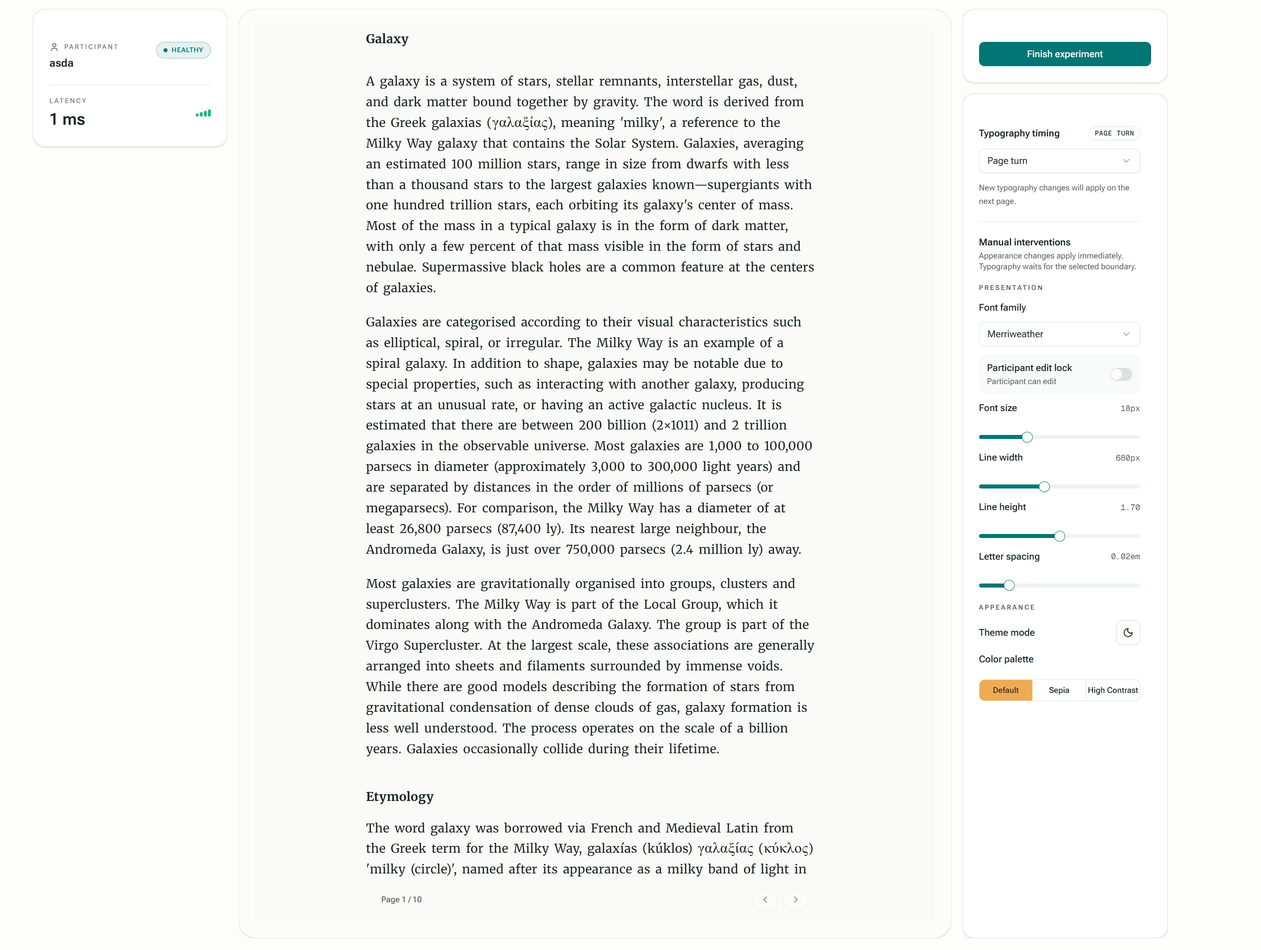
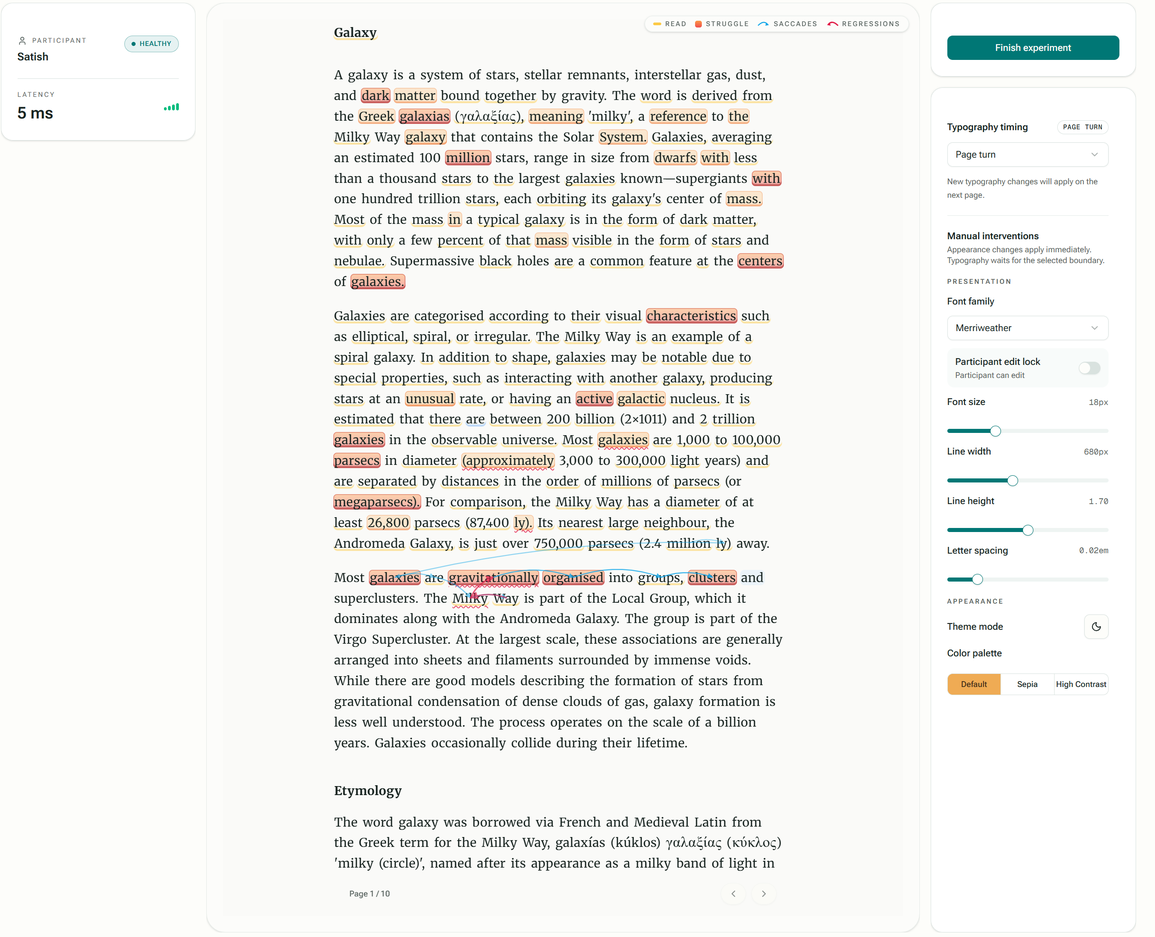
Refactor code structure for improved readability and maintainability

diff --git a/Master-Thesis-Report/Chapters/06_Implementation/02_session.tex b/Master-Thesis-Report/Chapters/06_Implementation/02_session.tex
@@ -4,17 +4,44 @@
 % Rewritten as a top-down, frontend-first flow: the researcher acts on a screen, the
 % action travels over one of two channels (REST commands / WebSocket realtime), the
 % backend session manager answers, and one authoritative snapshot updates both screens.
-% UML class-diagram primitives (multipart class boxes + UML arrowheads) for this chapter's structural figures.
-\usetikzlibrary{shapes.multipart, arrows.meta}
 
 \Cref{sec:impl-structure} mapped where the code lives; this section sets it in motion by following one experiment session end to end, told from the two screens the researcher operates and tracing each action inward to the code that answers it.
 It is the concrete counterpart of the abstract adaptive loop of \cref{sec:design-loop}, and it is the part of the system a researcher actually drives.
 
 \subsection*{Two screens, two channels}
 
-The platform is operated as two browser surfaces backed by one Next.js front-end (\cref{sec:impl-structure}): a researcher console on the operator's screen and a participant reader on the second screen.
-The researcher prepares and steers the session from the console while the participant only ever sees the reader, and the two are kept consistent not by talking to each other but by both rendering the same backend-owned snapshot.
+The platform is operated as two browser surfaces backed by one Next.js front-end (\cref{sec:impl-structure}), shown together in \cref{fig:impl-screens}: a researcher console on the operator's screen and a participant reader on the second screen.
+The researcher prepares and steers the session from the console, monitoring a live mirror of what the participant sees, while the participant only ever sees the reader; the two are kept consistent not by talking to each other but by both rendering the same backend-owned snapshot.
+
+\begin{figure}[htbp]
+\centering
+\begin{subfigure}{0.485\linewidth}
+  \centering
+  \screenshotfig[\linewidth]{Chapters/06_Implementation/screenshots/ResearcherLiveView.png}
+  \caption{Researcher console (operator screen).}
+  \label{fig:impl-screens-console}
+\end{subfigure}\hfill
+\begin{subfigure}{0.485\linewidth}
+  \centering
+  \screenshotfig[\linewidth]{Chapters/06_Implementation/screenshots/ReadingView.png}
+  \caption{Participant reader (second screen).}
+  \label{fig:impl-screens-reader}
+\end{subfigure}
+\caption{The two operated surfaces of the one front-end. The researcher prepares and steers the session from the console~(a), which mirrors the participant's reader, draws the live eye-movement analysis over the text (fixations, saccades, and regressions, toggled by the legend at the top), and reports the live end-to-end latency; the participant sees only the reader~(b), whose text the adaptive loop adjusts in place. Both render the same backend-owned snapshot, so they never diverge.}
+\label{fig:impl-screens}
+\end{figure}
+
 Two channels connect the front-end to the backend, and the distinction between them organises the whole walkthrough: a request and response REST interface carries the researcher's discrete \emph{commands}, while a single long-lived WebSocket carries the continuous realtime \emph{stream} in both directions.
+\Cref{fig:impl-flow} traces a complete session across these two channels, from the researcher's first command to the sealed record; the rest of this subsection then shows the code that realises each channel.
+
+\begin{figure}[htbp]
+\centering
+\IfFileExists{Chapters/06_Implementation/experiment-flow.pdf}%
+  {\includegraphics[width=\linewidth]{Chapters/06_Implementation/experiment-flow.pdf}}%
+  {\fbox{\parbox[c][4.2cm][c]{0.9\linewidth}{\centering\itshape Figure pending: render \texttt{Chapters/06\_Implementation/experiment-flow.mmd} to \texttt{experiment-flow.pdf} with \texttt{mmdc} (as for the Ch.~5 Mermaid figures).}}}%
+\caption{End-to-end flow of one experiment session across the two channels. The researcher's commands travel over REST (solid) and the realtime stream over the WebSocket (dashed); both converge on the single \texttt{ExperimentSessionManager}, which answers with one authoritative snapshot broadcast to both the console and the reader. Sensing, broadcast, and persistence are reached only through ports.}
+\label{fig:impl-flow}
+\end{figure}
 
 Commands travel over REST.
 The front-end's REST access is centralised in RTK Query slices (\cref{sec:impl-structure}); each researcher command (save the participant, choose the material, start the session, finish it, change an intervention policy) is a mutation that posts to a FastEndpoints route and receives the updated \texttt{ExperimentSessionSnapshot} in reply.
@@ -105,17 +132,7 @@ type ServerEnvelope =
 \label{lst:impl-envelope}
 \end{listing}
 
-\Cref{fig:impl-flow} traces a complete session across these two channels, from the researcher's first command to the sealed record.
-The remainder of this section walks the same flow phase by phase, and \cref{fig:impl-session-states} names the three phases the session moves through (configuring, running, and completed, with a reset back to the beginning).
-
-\begin{figure}[htbp]
-\centering
-\IfFileExists{Chapters/06_Implementation/experiment-flow.pdf}%
-  {\includegraphics[width=\linewidth]{Chapters/06_Implementation/experiment-flow.pdf}}%
-  {\fbox{\parbox[c][4.2cm][c]{0.9\linewidth}{\centering\itshape Figure pending: render \texttt{Chapters/06\_Implementation/experiment-flow.mmd} to \texttt{experiment-flow.pdf} with \texttt{mmdc} (as for the Ch.~5 Mermaid figures).}}}%
-\caption{End-to-end flow of one experiment session across the two channels. The researcher's commands travel over REST (solid) and the realtime stream over the WebSocket (dashed); both converge on the single \texttt{ExperimentSessionManager}, which answers with one authoritative snapshot broadcast to both the console and the reader. Sensing, broadcast, and persistence are reached only through ports.}
-\label{fig:impl-flow}
-\end{figure}
+With the two channels in hand, the remainder of this section walks the flow of \cref{fig:impl-flow} phase by phase; \cref{fig:impl-session-states} names the three phases the session moves through (configuring, running, and completed, with a reset back to the beginning).
 
 \begin{figure}[htbp]
 \centering
@@ -145,8 +162,9 @@ The remainder of this section walks the same flow phase by phase, and \cref{fig:
 \subsection*{Configuring: preparing the session}
 
 In the configuring phase the researcher prepares the session through a guided, role-sequenced stepper, shown in \cref{fig:impl-setup}.
-Each step is a REST command of the kind in \cref{lst:impl-rest-command}: selecting the participant, for example, posts to the participant route, whose endpoint calls \texttt{SetCurrentParticipantAsync} on the session manager.
-That backend method shows the shape every state-changing command takes (\cref{lst:impl-state-change}): it awaits the lifecycle gate, publishes a new immutable session record with \texttt{Volatile.Write}, and persists a checkpoint before releasing the gate, copying the participant so that no caller can mutate published state.
+Each step is a REST command of the kind in \cref{lst:impl-rest-command}: selecting the participant, for example, posts to the participant route.
+On the backend every route is a thin FastEndpoints handler that maps the request onto the \texttt{IExperimentRuntimeAuthority} port and returns the updated snapshot, holding no logic of its own; the pattern is identical across routes, so it is shown once, for the finish command, in \cref{lst:impl-endpoint}.
+The participant handler calls \texttt{SetCurrentParticipantAsync} on the session manager, which shows the shape every state-changing command takes (\cref{lst:impl-state-change}): it awaits the lifecycle gate, publishes a new immutable session record with \texttt{Volatile.Write}, and persists a checkpoint before releasing the gate, copying the participant so that no caller can mutate published state.
 The gate is a one-permit \texttt{SemaphoreSlim} rather than a plain lock because these operations are asynchronous and may \texttt{await}, and it serialises the slow command path so that, for example, one request cannot start a session while another is still stopping it.
 
 \begin{listing}[htbp]
@@ -230,12 +248,75 @@ public async Task<bool> StartSessionAsync(CancellationToken ct = default)
 \label{lst:impl-start}
 \end{listing}
 
+The broadcast is the work of the client broadcaster (\cref{lst:impl-broadcaster}), the infrastructure adapter that realises \texttt{IClientBroadcasterAdapter}: it serialises the snapshot into one envelope (the \texttt{ServerEnvelope} shape of \cref{lst:impl-envelope}) and sends it to every open socket, silently skipping any that have dropped, so a single call reaches both screens at once.
+
+\begin{listing}[htbp]
+\begin{minted}{csharp}
+public sealed class WebSocketRealtimeMessenger : IClientBroadcasterAdapter
+{
+    private readonly WebSocketConnectionManager _connections;
+    public int ConnectedClients => _connections.Count;
+
+    public async ValueTask BroadcastAsync<T>(
+        string messageType, T payload, CancellationToken ct = default)
+    {
+        var buffer = SerializeEnvelope(messageType, payload);  // { type, sentAtUnixMs, payload }
+        foreach (var socket in _connections.All)
+        {
+            if (socket.State != WebSocketState.Open) continue;
+            try { await socket.SendAsync(buffer, WebSocketMessageType.Text, true, ct); }
+            catch (OperationCanceledException) { throw; }
+            catch { /* ignore disconnected sockets and send failures */ }
+        }
+    }
+}
+\end{minted}
+\caption{The client broadcaster (abbreviated from \texttt{ReadingTheReader.RealtimeMessenger}). It realises the core's \texttt{IClientBroadcasterAdapter} port, serialises one envelope, and fans it out to every open WebSocket, so the manager broadcasts a snapshot without knowing anything about sockets or connection management.}
+\label{lst:impl-broadcaster}
+\end{listing}
+
 \subsection*{Running: reading with the live adaptive loop}
 
 From this point the realtime channel does the work.
-The participant's reader registers itself and subscribes to the gaze stream over the WebSocket, and both screens consume the broadcast through one small hook, \texttt{useLiveExperimentSession} (\cref{lst:impl-live-hook}).
+The gaze that drives it originates in the sensing adapter (\cref{lst:impl-tobii}): \texttt{TobiiEyeTrackerAdapter} realises \texttt{IEyeTrackerAdapter}, subscribes to the Tobii SDK's gaze callback, maps each raw sample into the domain's \texttt{GazeData}, and raises \texttt{GazeDataReceived} for the manager to consume.
+The whole adapter is compiled behind a \texttt{\#if WINDOWS} guard because the Tobii SDK is Windows-only, with a mock tracker compiled in its place off-Windows so the rest of the system builds and runs on any platform.
+
+\begin{listing}[htbp]
+\begin{minted}{csharp}
+#if WINDOWS
+public class TobiiEyeTrackerAdapter : IEyeTrackerAdapter
+{
+    public event EventHandler<GazeData>? GazeDataReceived;
+    private IEyeTracker? _selectedTracker;
+
+    public Task StartEyeTracking()
+    {
+        // ...guards: a tracker is selected, not calibrating or validating...
+        _selectedTracker!.GazeDataReceived += OnTobiiGazeDataReceived;   // Tobii SDK event
+        return Task.CompletedTask;
+    }
+
+    private void OnTobiiGazeDataReceived(object? sender, GazeDataEventArgs e)
+    {
+        var gazeData = new GazeData {
+            DeviceTimeStamp = e.DeviceTimeStamp,
+            LeftEyeX = (float)e.LeftEye.GazePoint.PositionOnDisplayArea.X,
+            LeftEyeY = (float)e.LeftEye.GazePoint.PositionOnDisplayArea.Y,
+            // ...right eye, pupil, and gaze-origin fields...
+        };
+        gazeData.Sanitize();
+        GazeDataReceived?.Invoke(this, gazeData);   // -> ExperimentSessionManager
+    }
+}
+#endif   // a mock tracker is compiled in this class's place off-Windows
+\end{minted}
+\caption{The sensing adapter (abbreviated from \texttt{TobiiEyeTracker\-Adapter.cs}). It realises the core's \texttt{IEyeTrackerAdapter} port, subscribes to the Tobii SDK, translates each raw sample into the domain \texttt{GazeData}, and raises \texttt{GazeDataReceived}; the \texttt{\#if WINDOWS} guard keeps the Windows-only SDK out of every other build.}
+\label{lst:impl-tobii}
+\end{listing}
+
+The manager consumes those samples on a lock-free path (examined in \cref{sec:impl-highlights}) and broadcasts the resulting snapshot, and both screens consume it through one small hook, \texttt{useLiveExperimentSession} (\cref{lst:impl-live-hook}).
 Because the manager re-emits the snapshot several times per gaze observation (focus, attention summary, and analysis each update it), the hook coalesces those bursts to a single React commit per animation frame, so the live tree re-renders at roughly \SI{60}{\hertz} regardless of the inbound message rate while never dropping the newest snapshot.
-The adaptive loop of \cref{sec:design-loop} then runs over the modules resolved from the registries of \cref{sec:design-modules}, fed by the lock-free gaze path examined in \cref{sec:impl-highlights}.
+The adaptive loop of \cref{sec:design-loop} runs over the modules resolved from the registries of \cref{sec:design-modules} as these samples arrive.
 
 \begin{listing}[htbp]
 \begin{minted}{typescript}
@@ -262,23 +343,49 @@ export function useLiveExperimentSession() {
 \label{lst:impl-live-hook}
 \end{listing}
 
-The participant sees only the reader (\cref{fig:impl-reader}), where the text adapts under the loop.
-The researcher observes and steers the same session through the live control surface (\cref{fig:impl-live}), which is the second screen of \cref{sec:design-style}: it mirrors the participant's text, reports the live end-to-end latency, and offers the manual interventions and typography controls through which the researcher adapts the presentation.
+The participant sees only the reader (\cref{fig:impl-screens-reader}), where the text adapts in place under the loop.
+In code the reader is the producing counterpart of the console (\cref{lst:impl-reader}): on an active session it registers its view, streams each enriched gaze and focus sample back over the WebSocket as the participant reads, and renders the text from the presentation carried on the snapshot.
+
+\begin{listing}[htbp]
+\begin{minted}{typescript}
+const liveSession = useLiveExperimentSession();        // the same hook the console uses
+useEffect(() => {
+  if (!liveSession?.isActive) return;
+  registerParticipantView();                           // join the realtime session
+  return () => unregisterParticipantView();
+}, [liveSession?.isActive]);
+
+// Stream each enriched gaze + focus sample back over the WebSocket while reading:
+const handleEnrichedFocusSample = (sample: GazeData, focus: GazeFocusState) =>
+  updateReadingEnrichedGazeSample(sample, { ...focus }, focus.updatedAtUnixMs);
+
+return <ReaderShell markdown={markdown} presentation={presentation}
+                    onEnrichedFocusSample={handleEnrichedFocusSample} />;
+\end{minted}
+\caption{The participant reader (abbreviated from \texttt{ReadingPage.tsx}). It consumes the snapshot through the same hook as the console, registers its participant view on the active session, renders the text from the snapshot's presentation, and streams each enriched gaze and focus sample back over the WebSocket.}
+\label{lst:impl-reader}
+\end{listing}
+
+The researcher observes and steers the same session through the live control surface (\cref{fig:impl-screens-console}), the second screen of \cref{sec:design-style}: it mirrors the participant's text with the live eye-movement analysis drawn over it (the fixations, saccades, and regressions toggled by the legend at the top), reports the live end-to-end latency, and offers the manual interventions and typography controls through which the researcher adapts the presentation.
+The overlay is computed from the same gaze stream and carried on the same snapshot the screens already render, so the researcher sees where the participant is reading, and where they are regressing, without any additional channel.
 Its behaviour makes the commit discipline of driver~D7 visible in the interface, since appearance changes are applied immediately whereas typography changes wait for the selected boundary, which is the two-phase, context-preserving commit of \cref{sec:design-loop} exposed as an operator control.
+In code the console is the consuming counterpart of the reader (\cref{lst:impl-console}): it reads the same snapshot through the same hook, renders the mirror and the overlays from it, issues policy changes as REST mutations, and pushes a manual intervention straight over the WebSocket.
 
-\begin{figure}[htbp]
-\centering
-\screenshotfig[0.95\linewidth]{Chapters/06_Implementation/screenshots/ReadingView.png}
-\caption{The participant's reader during a running session. The participant sees only the reading text, which the adaptive loop adjusts in place; gaze is streamed to the backend and the presentation it renders comes from the same authoritative snapshot that drives the researcher's console.}
-\label{fig:impl-reader}
-\end{figure}
+\begin{listing}[htbp]
+\begin{minted}{typescript}
+const session = useLiveExperimentSession();            // live snapshot, mirrored on screen
+const [updateInterventionPolicy] = useUpdateInterventionPolicyMutation();  // REST command
 
-\begin{figure}[htbp]
-\centering
-\screenshotfig[0.95\linewidth]{Chapters/06_Implementation/screenshots/ResearcherLiveView.png}
-\caption{The researcher's live control surface during a running session. It mirrors the participant's reader (the second screen of \cref{sec:design-style}), reports the live end-to-end latency, and exposes the manual interventions and typography controls. Appearance changes apply immediately while typography changes wait for the selected commit boundary, which is the context-preserving discipline of driver~D7 surfaced as an operator control.}
-\label{fig:impl-live}
-\end{figure}
+// A manual intervention the researcher applies is pushed over the WebSocket:
+const applyManualIntervention = (next: InterventionChoice, reason: string) =>
+  applyInterventionCommand({
+    source: "manual", trigger: "researcher-ui", reason,
+    moduleId: next.moduleId, parameters: next.parameters,
+  });
+\end{minted}
+\caption{The researcher console (abbreviated from \texttt{researcher/current-live/index.tsx}). It consumes the snapshot through the same hook as the reader, drives the mirror and overlays from it, sends configuration changes as REST mutations, and pushes manual interventions over the WebSocket.}
+\label{lst:impl-console}
+\end{listing}
 
 The session then proceeds item by item.
 For each material the participant reads while the loop adapts the text, and afterwards answers a short comprehension quiz submitted over REST, and both the reading events and the answers are written into the session record alongside every gaze sample, intervention, and lifecycle event.
@@ -286,7 +393,32 @@ For each material the participant reads while the loop adapts the text, and afte
 \subsection*{Finishing: sealing and replaying the record}
 
 Finishing the session ends it and seals its record.
-The researcher's \texttt{finishExperimentSession} command (\cref{lst:impl-rest-command}) resolves to \texttt{FinishSessionAsync}: the manager stops the loop, flushes any buffered events, and builds two exports from the recovery buffer, a full raw export and a processed one, saves them as the latest, marks the recovery completed, and clears the active record, after which the session is sealed exactly as \cref{sec:design-data} described.
+The researcher's \texttt{finishExperimentSession} command (\cref{lst:impl-rest-command}) lands on its FastEndpoints handler (\cref{lst:impl-endpoint}), which forwards it to the runtime authority and returns the sealed snapshot, the thin-handler shape every REST route in the system follows.
+
+\begin{listing}[htbp]
+\begin{minted}{csharp}
+public sealed class FinishExperimentEndpoint
+    : Endpoint<FinishExperimentRequest, ExperimentSessionSnapshot>
+{
+    private readonly IExperimentRuntimeAuthority _runtimeAuthority;
+    public FinishExperimentEndpoint(IExperimentRuntimeAuthority runtimeAuthority)
+        => _runtimeAuthority = runtimeAuthority;
+
+    public override void Configure() => Post("/experiment-session/finish");
+
+    public override async Task HandleAsync(FinishExperimentRequest req, CancellationToken ct)
+    {
+        var snapshot = await _runtimeAuthority.FinishSessionAsync(
+            new FinishExperimentCommand(req.Source), ct);
+        await Send.OkAsync(snapshot, ct);
+    }
+}
+\end{minted}
+\caption{A REST endpoint (abbreviated from \texttt{FinishExperimentEndpoint.cs}). Every route follows this shape: it depends on a core port (\texttt{IExperimentRuntimeAuthority}), translates the HTTP request into an application command, and returns the resulting snapshot, keeping all session logic in the core.}
+\label{lst:impl-endpoint}
+\end{listing}
+
+On the manager this resolves to \texttt{FinishSessionAsync}: it stops the loop, flushes any buffered events, and builds two exports from the recovery buffer, a full raw export and a processed one, saves them as the latest, marks the recovery completed, and clears the active record, after which the session is sealed exactly as \cref{sec:design-data} described.
 A sealed session is then available for replay, shown in \cref{fig:impl-replay}: the recording is reconstructed as a timed playback, with the gaze token heat map drawn over the text and a filterable timeline of lifecycle, quiz, and intervention events beside it.
 Replay is therefore the operational proof of \cref{sec:design-data}, that a session can be re-presented and re-analysed from its record alone.
 
@@ -326,64 +458,9 @@ public sealed partial class ExperimentSessionManager :
 \label{lst:impl-manager-class}
 \end{listing}
 
-\Cref{fig:impl-session-manager} shows that arrangement at the level of types: the manager is an \texttt{Application}-layer class that realises its segregated runtime facades and depends only on port interfaces also declared in \texttt{Application}, while the concrete adapters that drive the Tobii device, broadcast to the connected clients, and persist the session record live in the infrastructure projects and realise those ports.
-Every realisation and dependency edge in the figure therefore crosses the \texttt{Application}/infrastructure boundary inward, which is the dependency rule of \cref{sec:design-style} holding at the granularity of individual classes rather than whole projects.
+Crucially, the manager names none of the concrete adapters it drives: it depends only on the port interfaces declared beside it in \texttt{Application}, so the Tobii device, the client broadcaster, and the persistence store are each reached through a port alone.
+That seam, where any adapter (or a future external module) plugs in behind a core-declared interface, is where the modularity of \cref{sec:design-style} is realised at the level of individual classes, and it is examined in \cref{sec:impl-highlights}.
 Because all session state lives behind this one component and is published as a single snapshot, the researcher's control surface and the participant's reader never hold competing copies of the truth.
 
-\begin{figure}[htbp]
-\centering
-\resizebox{\linewidth}{!}{%
-\begin{tikzpicture}[
-  font=\scriptsize,
-  mgr/.style={rectangle split, rectangle split parts=3, draw=navyblue, very thick, fill=blue!8, align=left, text width=5.0cm, inner sep=4pt},
-  iface/.style={rectangle split, rectangle split parts=2, draw=black!65, thick, fill=grey!15, align=left, text width=3.7cm, inner sep=3pt},
-  adapter/.style={rectangle split, rectangle split parts=2, draw=dtured, very thick, fill=dtured!8, align=left, text width=3.7cm, inner sep=3pt},
-  realise/.style={dashed, -{Triangle[open, length=7pt, width=7pt]}, semithick, black!70},
-  use/.style={dashed, -{Stealth[length=5pt]}, semithick, black!55},
-  bnd/.style={dashed, black!40, thick},
-  note/.style={font=\scriptsize\itshape, text=black!75},
-]
-% ---- core: the session manager (Application layer) ----
-\node[mgr] (mgr) at (0,5.9)
-  {{\bfseries ExperimentSessionManager}\\{\itshape sealed, partial}\\[2pt]{\tiny realises \mbox{IExperimentRuntimeAuthority}, \mbox{IExperimentSessionManager},\\\mbox{IExperimentSessionQueryService}, \mbox{IExperimentReplayRecoveryBuffer}}
-   \nodepart{two}$-$\_lifecycleGate : SemaphoreSlim\\$-$\_session : ExperimentSession
-   \nodepart{three}$+$StartSessionAsync() : bool\\$+$FinishSessionAsync(cmd) : Snapshot\\$+$GetCurrentSnapshot() : Snapshot};
-% ---- core: the port interfaces (Application layer) ----
-\node[iface] (psen) at (-5.8,1.5)
-  {{\itshape interface}\\{\bfseries IEyeTrackerAdapter}
-   \nodepart{two}$+$GazeDataReceived : event\\$+$StartEyeTracking()\\$+$BeginCalibrationAsync()};
-\node[iface] (pbrd) at (0,1.5)
-  {{\itshape interface}\\{\bfseries IClientBroadcaster\\Adapter}
-   \nodepart{two}$+$BroadcastAsync(type, \mbox{payload})\\$+$ConnectedClients : int};
-\node[iface] (psto) at (5.8,1.5)
-  {{\itshape interface}\\{\bfseries IExperimentStateStore\\Adapter}
-   \nodepart{two}$+$SaveActiveReplayAsync(doc)\\$+$LoadActiveReplayAsync() : Replay?};
-% ---- Application / infrastructure boundary ----
-\draw[bnd] (-7.8,-0.6) -- (7.8,-0.6);
-\node[note, anchor=west] at (8.1,-0.12) {Application};
-\node[note, anchor=west] at (8.1,-0.52) {(core, ports)};
-\node[note, anchor=west] at (8.1,-1.0) {Infrastructure};
-\node[note, anchor=west] at (8.1,-1.4) {(adapters)};
-% ---- infrastructure: concrete adapters ----
-\node[adapter] (asen) at (-5.8,-2.9)
-  {{\bfseries TobiiEyeTracker\\Adapter}\nodepart{two}{\itshape project:\\TobiiEyetracker}};
-\node[adapter] (abrd) at (0,-2.9)
-  {{\bfseries WebSocketRealtime\\Messenger}\nodepart{two}{\itshape project:\\RealtimeMessenger}};
-\node[adapter] (asto) at (5.8,-2.9)
-  {{\bfseries FileSnapshotExperiment\\StateStoreAdapter}\nodepart{two}{\itshape project:\\Realtime.Persistence}};
-% ---- dependencies: the manager uses the ports ----
-\draw[use] (mgr.south) -- (pbrd.north) node[note, midway, fill=white, inner sep=1pt] {depends on};
-\draw[use] (mgr.south west) to[out=-120,in=65] (psen.north);
-\draw[use] (mgr.south east) to[out=-60,in=115] (psto.north);
-% ---- realisations: the adapters realise the ports ----
-\draw[realise] (asen.north) -- (psen.south) node[note, midway, fill=white, inner sep=1pt] {realises};
-\draw[realise] (abrd.north) -- (pbrd.south);
-\draw[realise] (asto.north) -- (psto.south);
-\end{tikzpicture}%
-}
-\caption[Ports-and-adapters realisation around the session manager.]{Class view of the experiment session as ports and adapters. The \texttt{ExperimentSessionManager} (top) is an \texttt{Application}-layer class that realises its segregated runtime facades and depends only on the three port interfaces in the middle row (sensing, broadcast, and persistence). Each concrete adapter in the bottom row lives in an infrastructure project and realises the port above it. The dashed rule marks the \texttt{Application}/infrastructure boundary: every realisation (hollow triangle) and dependency (filled arrow) edge crosses it inward towards the core, so the dependency rule of \cref{sec:design-style} is visible at the level of individual classes. Members are abbreviated; the replay, recovery, and module-provider ports follow the same pattern and are omitted for clarity.}
-\label{fig:impl-session-manager}
-\end{figure}
-
-The walkthrough has named several mechanisms only in passing: the lock-free gaze path that keeps the live latency low, the registries that resolve the modules the loop drives, and the export that replay consumes.
-\Cref{sec:impl-highlights} opens these three for a closer look.
+The walkthrough has named several mechanisms only in passing: the lock-free gaze path that keeps the live latency low, the ports-and-adapters seam that makes the sensing, broadcast, and persistence modules swappable, and the export that replay consumes.
+\Cref{sec:impl-highlights} opens these for a closer look.

diff --git a/Master-Thesis-Report/Chapters/06_Implementation/03_highlights.tex b/Master-Thesis-Report/Chapters/06_Implementation/03_highlights.tex
@@ -1,4 +1,69 @@
 \section{Implementation Highlights}
 \label{sec:impl-highlights}
 % Authoring brief for this section lives in section.md (§6.3).
+% TikZ primitives for the relocated ports-and-adapters class diagram below.
+\usetikzlibrary{shapes.multipart, arrows.meta}
 \todo[inline]{\S6.3 to be written. 2--4 deeper dives the walkthrough flags: real-time gaze hot path (lock-free, WebSocket; RQ2); pluggable modules + a worked "add an intervention" (RQ1); external-provider framework realized; session record schema + replay (RQ4). Each: prose + at most one short listing. Pick the dives during scaffolding.}
+
+% RELOCATED FROM §6.2 (decided 2026-06): the ports-and-adapters class diagram belongs
+% to the modularity dive (RQ1) as the seam where adapters/modules plug in behind a
+% core-declared port, not to the session flow. It is parked here under \iffalse until
+% this section is written; then introduce it from the prose (it is \cref'd from
+% \cref{sec:impl-session} as the seam examined here), reference \cref{fig:impl-session-manager},
+% and remove the \iffalse guard. Needs \usetikzlibrary{shapes.multipart, arrows.meta} (loaded above).
+\iffalse
+\begin{figure}[htbp]
+\centering
+\resizebox{\linewidth}{!}{%
+\begin{tikzpicture}[
+  font=\scriptsize,
+  mgr/.style={rectangle split, rectangle split parts=3, draw=navyblue, very thick, fill=blue!8, align=left, text width=5.0cm, inner sep=4pt},
+  iface/.style={rectangle split, rectangle split parts=2, draw=black!65, thick, fill=grey!15, align=left, text width=3.7cm, inner sep=3pt},
+  adapter/.style={rectangle split, rectangle split parts=2, draw=dtured, very thick, fill=dtured!8, align=left, text width=3.7cm, inner sep=3pt},
+  realise/.style={dashed, -{Triangle[open, length=7pt, width=7pt]}, semithick, black!70},
+  use/.style={dashed, -{Stealth[length=5pt]}, semithick, black!55},
+  bnd/.style={dashed, black!40, thick},
+  note/.style={font=\scriptsize\itshape, text=black!75},
+]
+% ---- core: the session manager (Application layer) ----
+\node[mgr] (mgr) at (0,5.9)
+  {{\bfseries ExperimentSessionManager}\\{\itshape sealed, partial}\\[2pt]{\tiny realises \mbox{IExperimentRuntimeAuthority}, \mbox{IExperimentSessionManager},\\\mbox{IExperimentSessionQueryService}, \mbox{IExperimentReplayRecoveryBuffer}}
+   \nodepart{two}$-$\_lifecycleGate : SemaphoreSlim\\$-$\_session : ExperimentSession
+   \nodepart{three}$+$StartSessionAsync() : bool\\$+$FinishSessionAsync(cmd) : Snapshot\\$+$GetCurrentSnapshot() : Snapshot};
+% ---- core: the port interfaces (Application layer) ----
+\node[iface] (psen) at (-5.8,1.5)
+  {{\itshape interface}\\{\bfseries IEyeTrackerAdapter}
+   \nodepart{two}$+$GazeDataReceived : event\\$+$StartEyeTracking()\\$+$BeginCalibrationAsync()};
+\node[iface] (pbrd) at (0,1.5)
+  {{\itshape interface}\\{\bfseries IClientBroadcaster\\Adapter}
+   \nodepart{two}$+$BroadcastAsync(type, \mbox{payload})\\$+$ConnectedClients : int};
+\node[iface] (psto) at (5.8,1.5)
+  {{\itshape interface}\\{\bfseries IExperimentStateStore\\Adapter}
+   \nodepart{two}$+$SaveActiveReplayAsync(doc)\\$+$LoadActiveReplayAsync() : Replay?};
+% ---- Application / infrastructure boundary ----
+\draw[bnd] (-7.8,-0.6) -- (7.8,-0.6);
+\node[note, anchor=west] at (8.1,-0.12) {Application};
+\node[note, anchor=west] at (8.1,-0.52) {(core, ports)};
+\node[note, anchor=west] at (8.1,-1.0) {Infrastructure};
+\node[note, anchor=west] at (8.1,-1.4) {(adapters)};
+% ---- infrastructure: concrete adapters ----
+\node[adapter] (asen) at (-5.8,-2.9)
+  {{\bfseries TobiiEyeTracker\\Adapter}\nodepart{two}{\itshape project:\\TobiiEyetracker}};
+\node[adapter] (abrd) at (0,-2.9)
+  {{\bfseries WebSocketRealtime\\Messenger}\nodepart{two}{\itshape project:\\RealtimeMessenger}};
+\node[adapter] (asto) at (5.8,-2.9)
+  {{\bfseries FileSnapshotExperiment\\StateStoreAdapter}\nodepart{two}{\itshape project:\\Realtime.Persistence}};
+% ---- dependencies: the manager uses the ports ----
+\draw[use] (mgr.south) -- (pbrd.north) node[note, midway, fill=white, inner sep=1pt] {depends on};
+\draw[use] (mgr.south west) to[out=-120,in=65] (psen.north);
+\draw[use] (mgr.south east) to[out=-60,in=115] (psto.north);
+% ---- realisations: the adapters realise the ports ----
+\draw[realise] (asen.north) -- (psen.south) node[note, midway, fill=white, inner sep=1pt] {realises};
+\draw[realise] (abrd.north) -- (pbrd.south);
+\draw[realise] (asto.north) -- (psto.south);
+\end{tikzpicture}%
+}
+\caption[Ports-and-adapters realisation around the session manager.]{Class view of the experiment session as ports and adapters. The \texttt{ExperimentSessionManager} (top) is an \texttt{Application}-layer class that realises its segregated runtime facades and depends only on the three port interfaces in the middle row (sensing, broadcast, and persistence). Each concrete adapter in the bottom row lives in an infrastructure project and realises the port above it. The dashed rule marks the \texttt{Application}/infrastructure boundary: every realisation (hollow triangle) and dependency (filled arrow) edge crosses it inward towards the core, so the modularity of \cref{sec:design-style} is visible at the level of individual classes. Members are abbreviated; the replay, recovery, and module-provider ports follow the same pattern and are omitted for clarity.}
+\label{fig:impl-session-manager}
+\end{figure}
+\fi
